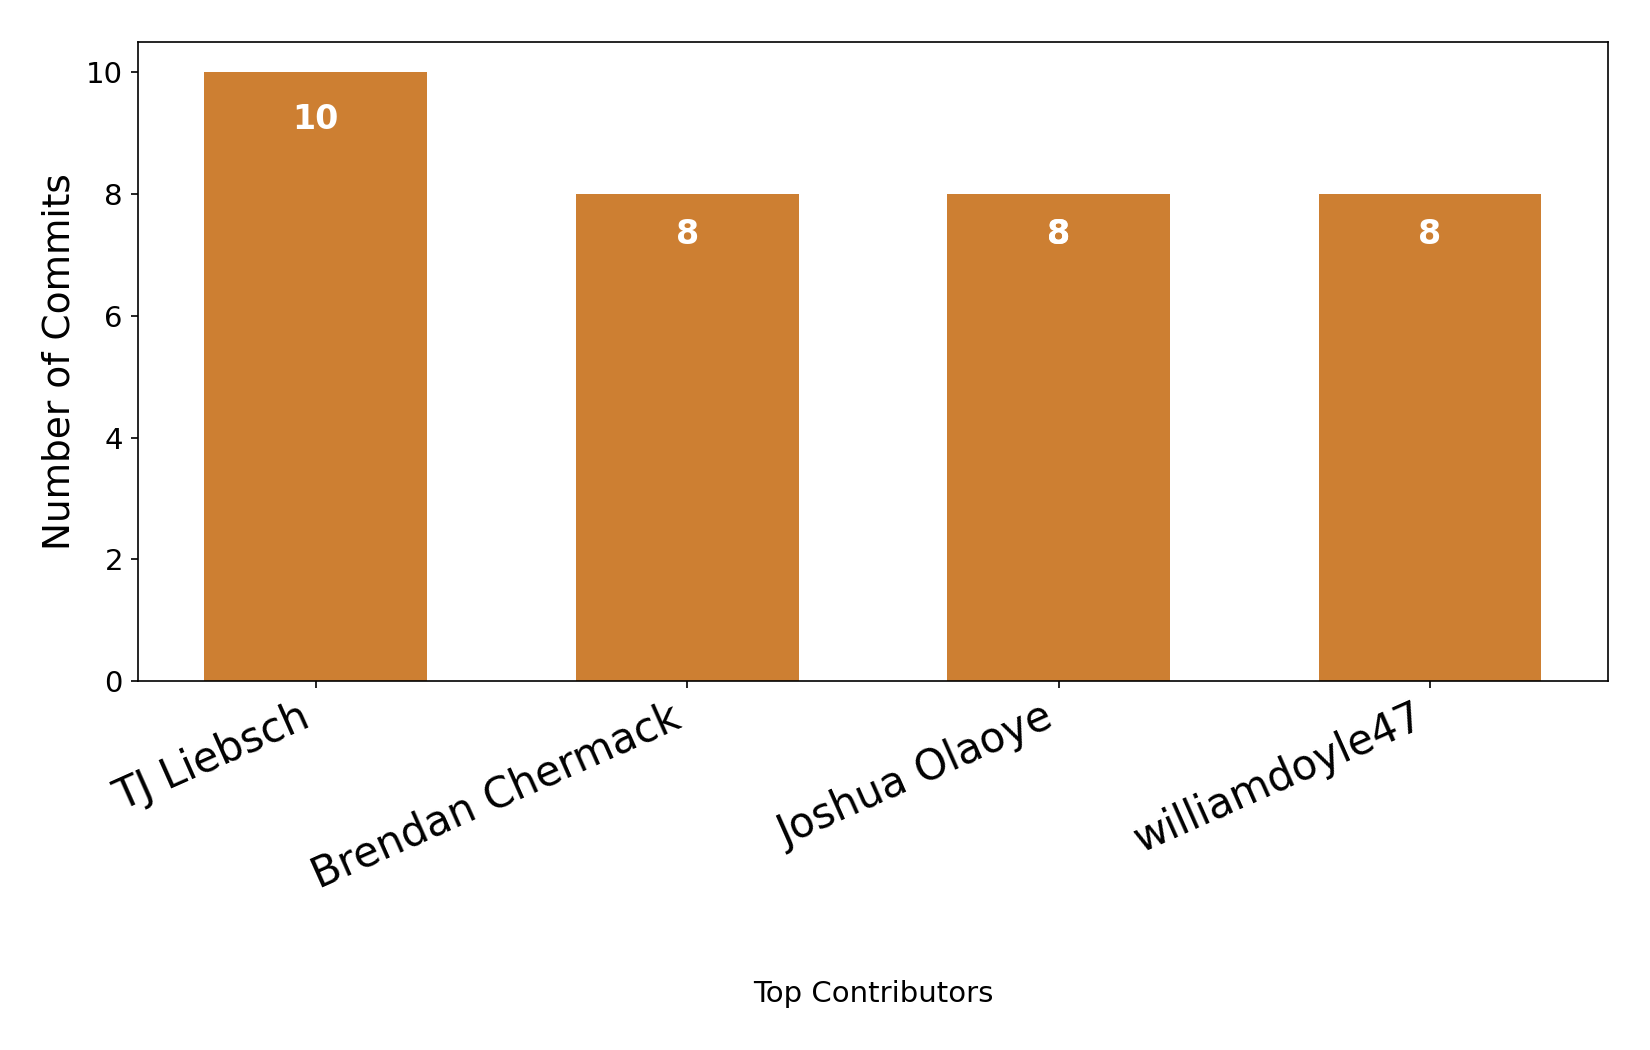
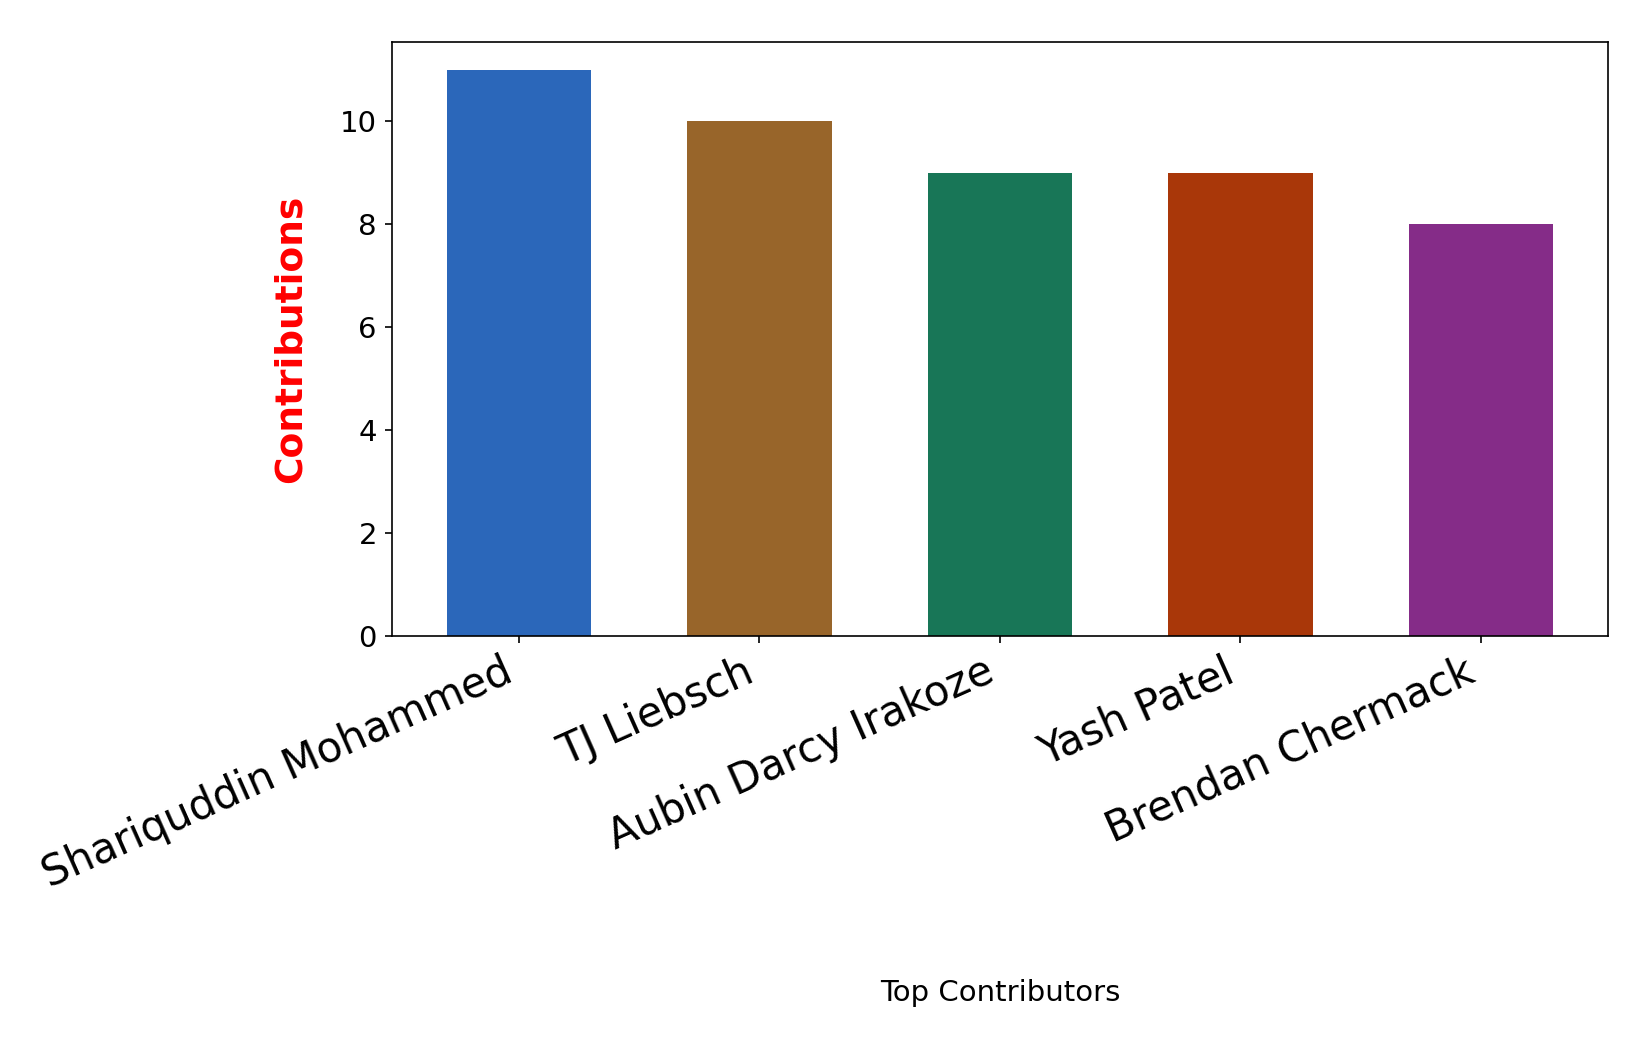
Developers Tab: Design improvement #413

diff --git a/Developers/devCharts.py b/Developers/devCharts.py
@@ -175,7 +175,7 @@ def ticketsByDev_text() -> str:
 # ----------------------------
 def plot_single_tier(rows: list[tuple[str, int, str]], tier: str, outpath: str):
 
-    color_map = {"Gold": "#D4AF37", "Silver": "#C0C0C0", "Bronze": "#CD7F32"}
+    
     data = [r for r in rows if r[2] == tier]
 
     if not data:
@@ -190,29 +190,22 @@ def plot_single_tier(rows: list[tuple[str, int, str]], tier: str, outpath: str):
 
     names = [extract_name(r[0]) for r in data]
     counts = [r[1] for r in data]
-    color = color_map.get(tier, "#888888")
+    
+   
+    colors = ["#2B67BA", "#98652A", "#187657", "#A93709", "#852C88"]
 
     plt.figure(figsize=(max(10, len(data) * 2.2), 7))
 
-    bars = plt.bar(names, counts, color=color, width=0.6)
+    bars = plt.bar(names, counts, color=colors, width=0.6)
 
     plt.xticks(rotation=24, ha="right", fontsize=20)   # Smaller font for names
     plt.yticks(fontsize=14)
-    plt.ylabel("Number of Commits", fontsize=18)
+    plt.ylabel("Contributions", fontsize=18, fontweight='bold', color='red', labelpad=15)
     plt.xlabel("Top Contributors", fontsize=14, labelpad=40)
     #plt.title(f"{tier} Tier", fontsize=36, weight="bold")
 
     # Add value labels with more vertical padding and smaller font size
-    for i, b in enumerate(bars):
-        h = b.get_height()
-        plt.text(
-            b.get_x() + b.get_width() / 2,
-            h - 0.05 * h,  # slightly below the top
-            str(counts[i]),
-            ha="center", va="top",
-            fontsize=16, weight="bold", color="white"
-        )
-
+    
     plt.tight_layout(pad=2.0)  # Add padding to avoid clipping
     plt.savefig(outpath, dpi=150)
     plt.close()
